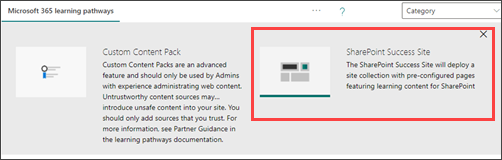
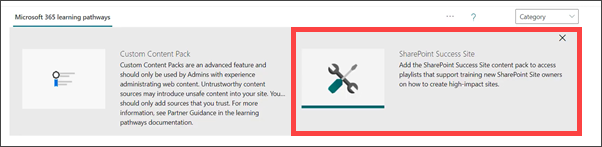
Added new images and video.

diff --git a/SharePoint/SharePointOnline/provision-sss.md b/SharePoint/SharePointOnline/provision-sss.md
@@ -21,10 +21,11 @@ description: "Provision the SharePoint Success Site"
 
 # Provision the SharePoint Success Site 
 
-Start the SharePoint Success Site provisioning process by understanding the prerequisites. Then, you can provision the site from the look book or Microsoft 365 learning pathways administration page. 
+Start the SharePoint Success Site provisioning process by understanding the prerequisites. Then, you can provision the site from the [look book](https://docs.microsoft.com/sharepoint/provision-sss-lookbook) or Microsoft 365 learning pathways administration page. 
 Global administrator (formerly called the Tenant admin) credentials are required to start the provisioning process for the SharePoint Success Site. 
 
-Before getting started, make sure you've met the requirements for provisioning. 
+Before getting started, [see what the provisioning process is like](https://www.youtube.com/watch?v=HZjxBAKVnJs&feature=youtu.be) and make sure you've met the requirements for provisioning. 
+
 
 
 ## Meet the requirements
@@ -146,6 +147,8 @@ Once you’ve confirmed the following, you are ready to provision:
 
 ### Provision the SharePoint Success Site to your tenant from the Learning pathways administrative page
 
+It's reccomended that you install the SharePoint Success Site using the instructions below, but you can also follow the guidance on how to provision from the [look book](https://docs.microsoft.com/sharepoint/provision-sss-lookbook).
+
 1.  Navigate to [office.com](https://www.office.com/) or your organization’s sign-in location.
 2.  Sign in with your username and password.
 3.  Navigate to the location of the site using the URL supplied by your SharePoint administrator or select SharePoint from the Microsoft 365 home page, and then select the **M365 learning pathways** site.
@@ -162,9 +165,9 @@ Once you’ve confirmed the following, you are ready to provision:
 8.  Fill out the email address and URL details and then select **Provision**.
 9.  Select **Complete**.
 
-10. When you see Provisioning completed, select the **CustomLearningAdministration** tab as shown in the following image:
+10. When you see Provisioning completed, select the **CustomLearningAdmin** tab as shown in the following image:
 
-    ![Image of the M365 learning pathways solution tab](media/sss-m365lp-tab.png)
+    ![Image of the M365 learning pathways solution tab](media/custom-learning-admin-tab.png)
 
 11. Select **Complete** as shown in the following image:
 
@@ -208,7 +211,18 @@ Share the URLs for the M365 learning pathways administration site and the ShareP
 
 #### Frequently asked questions
 
-**Question: Can I provision from the look book?**
+**Question: What are the requirements for installing the SharePoint Success Site into my tenant environment?**
+<br>
+Answer:
+- Ensure SharePoint Online is enabled in your environment.
+- The individual that will provision the SharePoint Success Site must be the global admin (formerly called the Tenant admin) of the target tenant for install.
+- The tenant where the site will be provisioned must have:
+    - The App Catalog installed
+    - Version 4.0 or higher of [M365 learning pathways](https://docs.microsoft.com/office365/customlearning/#:%7E:text=Microsoft%20365%20learning%20pathways%20is%20a%20customizable%2C%20on-demand,adoption%20of%20Microsoft%20365%20services%20in%20your%20organization.) installed
+<br>
+
+
+**Question: Can I provision the site from the look book?**
 <br>
 Answer: Yes, follow the guidance on how to provision from the [look book](https://docs.microsoft.com/sharepoint/provision-sss-lookbook).
 <br>
@@ -216,6 +230,13 @@ Answer: Yes, follow the guidance on how to provision from the [look book](https:
 **Question: Who has permission to provision the SharePoint Success Site?**
 <br>
 Answer: The Global admin (formerly called the Tenant admin) are required.
+<br>
+
+**Question: I have installed the SharePoint Success Site successfully, but I'm not able to get the Success Site content from the M365 learning pathways web part loaded on my site. What should I do?**
+<br>
+Answer: 
+
+It is likely that the content pack has not been fully installed. You must return to the **CustomLearningAdmin** page that will appear when site provisioning is done to complete the installation. Confirm you have followed steps 10 through 12 above. Review the [provisioning video](https://www.youtube.com/watch?v=HZjxBAKVnJs&feature=youtu.be) for more detail.
 <br>
 
 **Question: Who has permission to customize the site template?**
